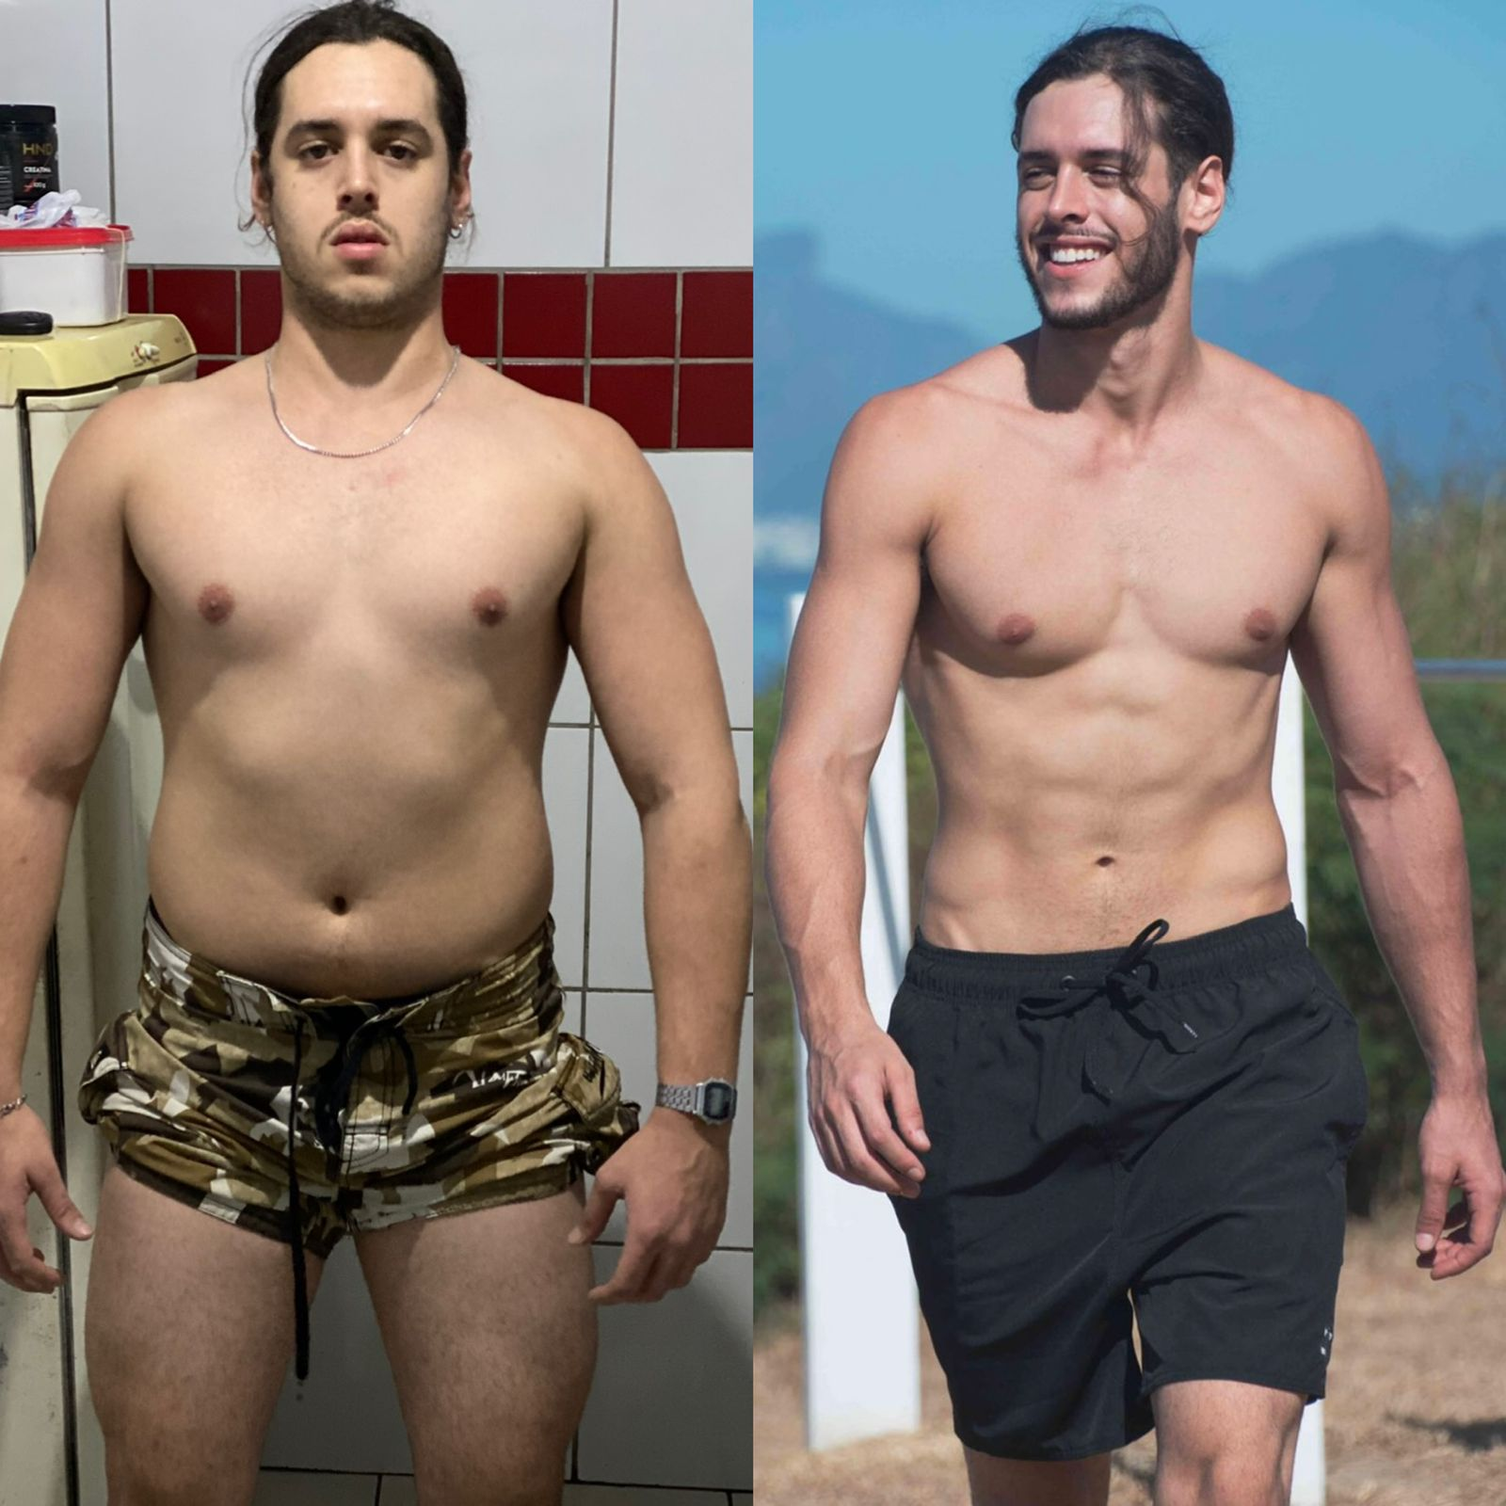
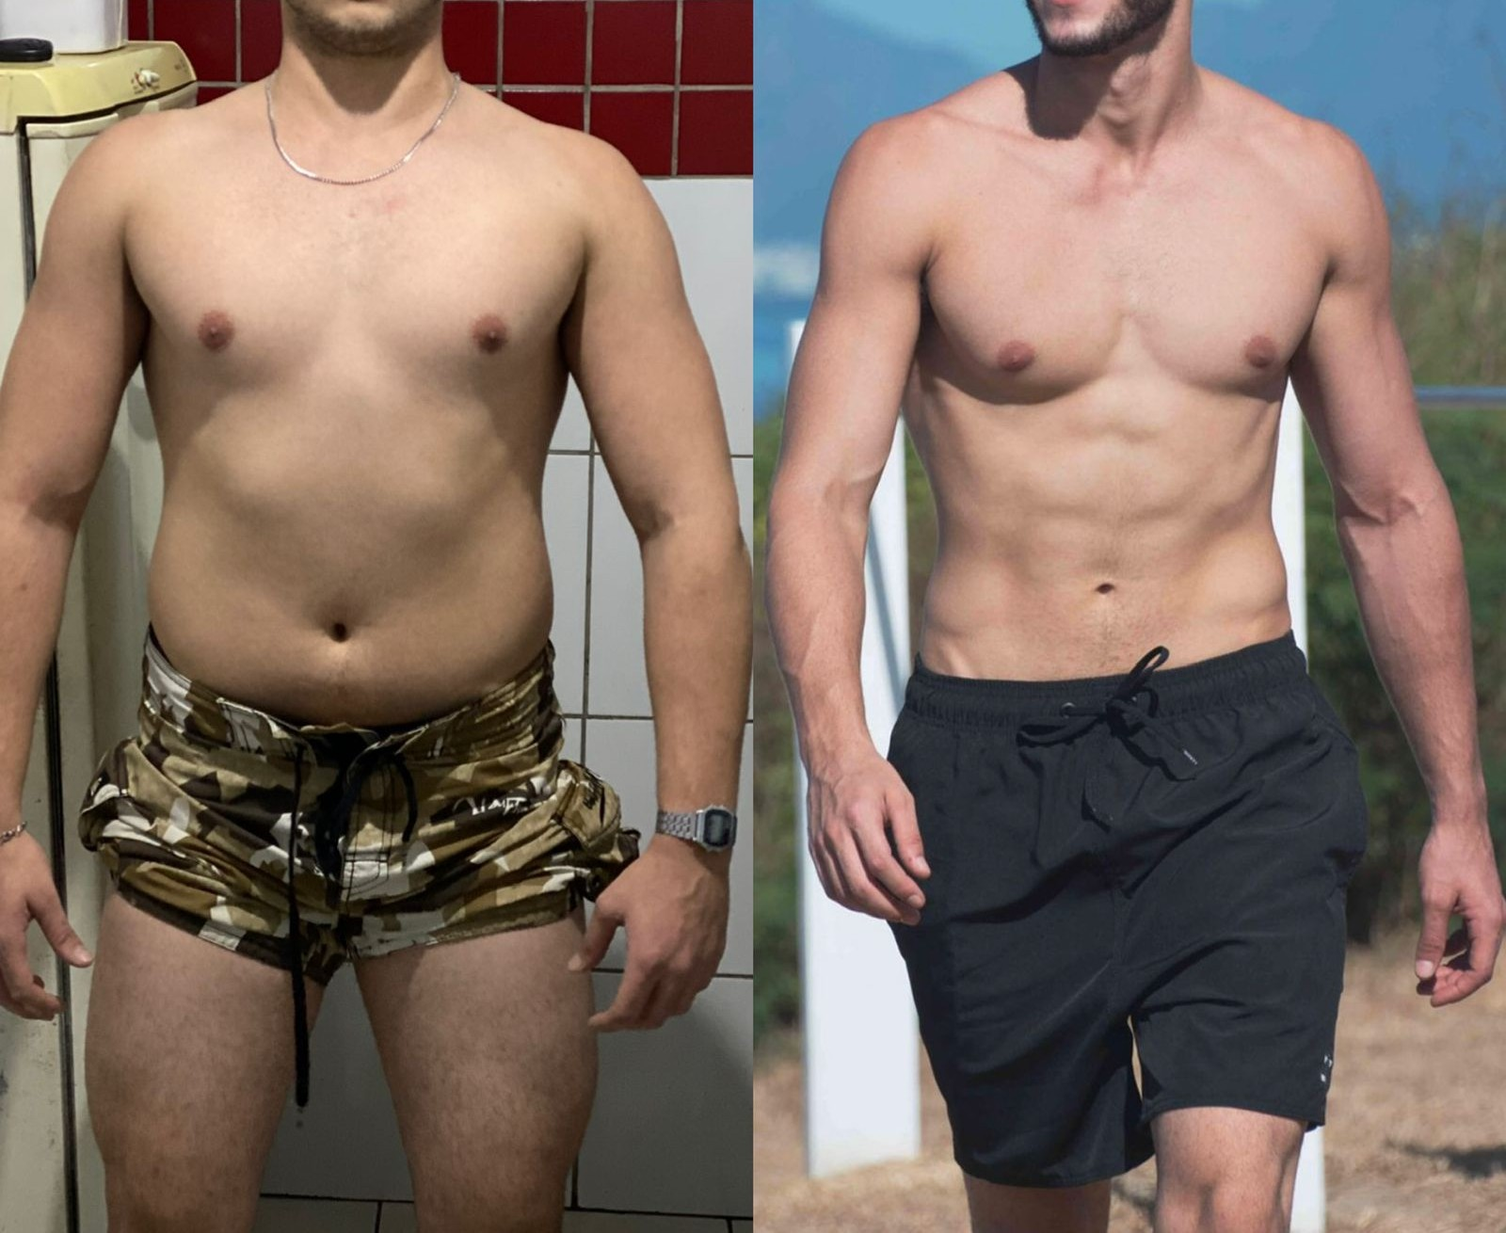
ajustes

diff --git a/index.html b/index.html
@@ -117,20 +117,32 @@
             scroll-behavior: smooth;
             /* Rolagem suave ao clicar nos botões */
         }
+
+        .logo-header {
+            max-width: 120px;
+            height: 100%;
+        }
+
+        .logo-footer {
+            max-width: 200px;
+            height: 100%;
+        }
     </style>
 </head>
 
 <body class="antialiased selection:bg-brand-500 selection:text-white" style="max-width: 100%;">
 
     <nav class="fixed w-full z-50 glass-panel border-b border-dark-700 transition-all duration-300" id="navbar">
-        <div class="max-w-7xl mx-auto px-4 sm:px-6 lg:px-8">
-            <div class="flex items-center justify-between h-20">
-                <div class="text-3xl font-extrabold tracking-widest text-white">
-                    <a href="#">ORM <span class="text-brand-500">TEAM</span></a>
+        <div class="max-w-7xl mx-auto sm:px-6 lg:px-8">
+            <div class="flex items-center justify-end md:justify-between h-20 relative">
+
+                <div
+                    class="absolute left-1/2 -translate-x-1/2 md:static md:translate-x-0 md:left-auto text-3xl font-extrabold tracking-widest text-white">
+                    <a href="#"><img src="img/logo/logo_branco_alt.png" alt="" class="logo-header"></a>
                 </div>
 
                 <button id="mobile-menu-btn"
-                    class="md:hidden flex items-center text-gray-300 hover:text-brand-400 focus:outline-none transition-colors">
+                    class="md:hidden flex items-center text-gray-300 hover:text-brand-400 focus:outline-none transition-colors pr-4">
                     <svg id="icon-bars" class="w-8 h-8 block" fill="none" stroke="currentColor" viewBox="0 0 24 24"
                         stroke-width="2">
                         <path stroke-linecap="round" stroke-linejoin="round" d="M4 6h16M4 12h16m-7 6h7"></path>
@@ -142,7 +154,7 @@
                 </button>
 
                 <div id="nav-links"
-                    class="hidden md:flex absolute md:static top-20 left-0 w-full md:w-auto bg-dark-900 glass-panel md:bg-transparent border-b border-dark-700 md:border-none py-8 md:py-0 flex-col md:flex-row items-center space-y-6 md:space-y-0 md:space-x-8 shadow-2xl md:shadow-none">
+                    class="hidden md:flex absolute md:static top-20 left-0 w-full md:w-auto bg-dark-900 md:bg-transparent border-b border-dark-700 md:border-none py-8 md:py-0 flex-col md:flex-row items-center space-y-6 md:space-y-0 md:space-x-8 shadow-2xl md:shadow-none">
                     <a href="#resultados"
                         class="text-base md:text-sm font-medium text-gray-400 hover:text-brand-400 transition">Resultados</a>
                     <a href="#depoimentos"
@@ -150,14 +162,13 @@
                     <a href="#metodo"
                         class="text-base md:text-sm font-medium text-gray-400 hover:text-brand-400 transition">O
                         Método</a>
+                    <a href="#diferenciais"
+                        class="text-base md:text-sm font-medium text-gray-400 hover:text-brand-400 transition">Diferenciais</a>
                     <a href="#sobre"
                         class="text-base md:text-sm font-medium text-gray-400 hover:text-brand-400 transition">Sobre
                         Mim</a>
-                    <!-- <a href="#aplicacao"
-                        class="btn-pulse-glow inline-flex items-center justify-center bg-brand-500 hover:bg-brand-400 text-white font-extrabold py-3 md:py-4 px-8 rounded-[8px] transition-colors duration-300 w-[90%] md:w-auto text-center">
-                        ⚡ QUERO TRANFORMAR MEU FÍSICO
-                    </a> -->
                 </div>
+
             </div>
         </div>
     </nav>
@@ -185,7 +196,7 @@
                     </p>
 
                     <div class="reveal delay-300 pt-4 flex flex-col items-center gap-3">
-                        <a href="#aplicacao"
+                        <a href="https://wa.me/553182549209?text=Oi%20Jo%C3%A3o.%20Decidi%20que%20quero%20mudar%20meu%20shape." target="_blank"
                             class="btn-pulse-glow inline-flex items-center justify-center bg-brand-500 hover:bg-brand-400 text-white font-extrabold text-lg py-4 px-8 rounded-[8px] border border-brand-400/30 transition-colors duration-300 w-full sm:w-auto text-center">
                             ⚡ ENTRAR PARA CONSULTORIA VIP
                         </a>
@@ -336,16 +347,21 @@
                                 ★★★★★
                             </div>
                             <p class="text-gray-300 text-lg leading-relaxed italic mb-6">
-                                "Trabalho 10h por dia e achava impossível ter um físico de respeito. O método foi direto
-                                ao ponto. Em 3 meses mudei mais que em 2 anos de academia."
+                                "Indiscutível o profissionalismo e conhecimento do João. Treinos simples, mas que causam
+                                impacto significativo no corpo, posso dizer, por experiência própria, que com pouco
+                                tempo já se vê resultados..."
                             </p>
                         </div>
+                        <button
+                            class="open-modal-btn text-brand-400 hover:text-brand-300 text-sm font-semibold text-left mb-6 transition-colors focus:outline-none"
+                            data-text="Indiscutível o profissionalismo e conhecimento do João. Treinos simples, mas que causam impacto significativo no corpo, posso dizer, por experiência própria, que com pouco tempo já se vê resultados. A consultoria é realmente um investimento que vale a pena, pra se ter saúde e óbvio alcançar um corpo bonito e harmônico. João é sempre presente, detalhista e atencioso às demandas do aluno, fazendo alterações que são importantes. Um cara extremamente sério e comprometido com o que faz. Obrigada pelo acompanhamento, João. Estou colhendo frutos bons, através das suas orientações."
+                            data-name="Dra Indyanara" data-role="Advogada, 35 anos">
+                            Ler depoimento completo
+                        </button>
                         <div class="flex items-center gap-4 mt-auto border-t border-dark-700 pt-6">
-                            <img src="https://i.pravatar.cc/150?img=11" alt="Foto Cliente"
-                                class="w-14 h-14 rounded-full object-cover border-2 border-brand-500 grayscale">
                             <div>
-                                <h4 class="text-white font-bold">Carlos Mendes</h4>
-                                <p class="text-brand-400 text-sm font-medium">Empresário, 34 anos</p>
+                                <h4 class="text-white font-bold">Dra Indyanara</h4>
+                                <p class="text-brand-400 text-sm font-medium">Advogada, 35 anos</p>
                             </div>
                         </div>
                     </div>
@@ -357,16 +373,14 @@
                                 ★★★★★
                             </div>
                             <p class="text-gray-300 text-lg leading-relaxed italic mb-6">
-                                "Treino curto, intenso e uma dieta que cabe na minha rotina de viagens. Finalmente um
-                                treinador que entende quem tem a vida corrida."
+                                "Tô muito satisfeita com o resultado. -3kg em 14 dias, mesmo sentindo que tô comendo
+                                bastante e ganhando força nos exercícios. Não me sinto mais inchada igual quando iniciei, tinha a sensação que estava enorme quando comecei a consultoria."
                             </p>
                         </div>
                         <div class="flex items-center gap-4 mt-auto border-t border-dark-700 pt-6">
-                            <img src="https://i.pravatar.cc/150?img=33" alt="Foto Cliente"
-                                class="w-14 h-14 rounded-full object-cover border-2 border-brand-500 grayscale">
                             <div>
-                                <h4 class="text-white font-bold">Roberto Silva</h4>
-                                <p class="text-brand-400 text-sm font-medium">Engenheiro, 41 anos</p>
+                                <h4 class="text-white font-bold">Isabella Freitas</h4>
+                                <p class="text-brand-400 text-sm font-medium">Enfermeira, 25 anos</p>
                             </div>
                         </div>
                     </div>
@@ -378,16 +392,16 @@
                                 ★★★★★
                             </div>
                             <p class="text-gray-300 text-lg leading-relaxed italic mb-6">
-                                "Sempre fui o cara que começava e parava. O acompanhamento me deu a direção e a cobrança
-                                que eu precisava. Meu físico e minha disposição mudaram completamente."
+                                "O foco tem sido o maior diferencial e aprendizado desse processo todo e é algo que
+                                estou utilizando na minha vida. Nesse momento estou enfrentando diversas mudanças
+                                profissionais e financeiras que esse foco e determinação adquiridos nesse processo estao
+                                me dando confiança pra enfrentar."
                             </p>
                         </div>
                         <div class="flex items-center gap-4 mt-auto border-t border-dark-700 pt-6">
-                            <img src="https://i.pravatar.cc/150?img=12" alt="Foto Cliente"
-                                class="w-14 h-14 rounded-full object-cover border-2 border-brand-500 grayscale">
                             <div>
-                                <h4 class="text-white font-bold">André Lemos</h4>
-                                <p class="text-brand-400 text-sm font-medium">Médico, 38 anos</p>
+                                <h4 class="text-white font-bold">Dr Lucas Varela </h4>
+                                <p class="text-brand-400 text-sm font-medium">Advogado, 28 anos</p>
                             </div>
                         </div>
                     </div>
@@ -399,20 +413,58 @@
                                 ★★★★★
                             </div>
                             <p class="text-gray-300 text-lg leading-relaxed italic mb-6">
-                                "Eu achava que precisava morar na academia para ter resultado. Hoje treino 45 minutos
-                                com a estratégia certa e o espelho não mente. Excelente trabalho."
+                                "Tu tem um jeito de conduzir que motiva sem pressionar, corrige sem humilhar, incentiva
+                                sem iludir.
+                                E isso cria um ambiente onde eu não treino só pra mudar o físico, mas pra melhorar como
+                                ser humano mesmo..."
                             </p>
                         </div>
+                        <button
+                            class="open-modal-btn text-brand-400 hover:text-brand-300 text-sm font-semibold text-left mb-6 transition-colors focus:outline-none"
+                            data-text="Tu tem um jeito de conduzir que motiva sem pressionar, corrige sem humilhar, incentiva
+                                sem iludir.
+                                E isso cria um ambiente onde eu não treino só pra mudar o físico, mas pra melhorar como
+                                ser humano mesmo.
+                                Teu impacto vai além do treino: é disciplina, é autoestima, é cuidado, é presença.
+                                Tu me fez acreditar que eu posso mais do que eu imaginava, e isso fica.
+                                Esse é o tipo de coisa que transforma" data-name="Dr Leo Nunes"
+                            data-role="Médico, 47 anos">
+                            Ler depoimento completo
+                        </button>
                         <div class="flex items-center gap-4 mt-auto border-t border-dark-700 pt-6">
-                            <img src="https://i.pravatar.cc/150?img=60" alt="Foto Cliente"
-                                class="w-14 h-14 rounded-full object-cover border-2 border-brand-500 grayscale">
                             <div>
-                                <h4 class="text-white font-bold">Marcelo Costa</h4>
-                                <p class="text-brand-400 text-sm font-medium">Desenvolvedor, 29 anos</p>
+                                <h4 class="text-white font-bold">Dr Leo Nunes</h4>
+                                <p class="text-brand-400 text-sm font-medium">Médico, 47 anos</p>
                             </div>
                         </div>
                     </div>
 
+                    <div
+                        class="reveal-scale delay-400 min-w-[300px] md:min-w-[400px] max-w-[400px] bg-dark-800 border border-dark-700 p-8 rounded-2xl snap-center flex flex-col justify-between hover:border-brand-500/30 transition-colors">
+                        <div>
+                            <div class="flex text-yellow-400 mb-4 text-xl">
+                                ★★★★★
+                            </div>
+                            <p class="text-gray-300 text-lg leading-relaxed italic mb-6">
+                                "E hoje eu tive uma percepção muito boa. Eu nunca, NUNCA consegui colocar mais que 25,
+                                30kg nessa máquina de elevação pélvica. Ficava muito pesado e eu sentia que meu glúteo
+                                não conseguia sustentar a força..."
+                            </p>
+                        </div>
+                        <button
+                            class="open-modal-btn text-brand-400 hover:text-brand-300 text-sm font-semibold text-left mb-6 transition-colors focus:outline-none"
+                            data-text="E hoje eu tive uma percepção muito boa. Eu nunca, NUNCA consegui colocar mais que 25, 30kg nessa máquina de elevação pélvica. Ficava muito pesado e eu sentia que meu glúteo não conseguia sustentar a força. E desde então, treinando glúteo 3x na semana como você fez, meu glúteo ganhou uma força
+                                surreal 🥺 hoje fiquei tão feliz que eu consegui fazer 45kg naquela máquina! Kkkk parece pouco, mas tipo, eu nunca consegui sair de 25"
+                            data-name="Dra Jessica Poline" data-role="Dentista 24 anos">
+                            Ler depoimento completo
+                        </button>
+                        <div class="flex items-center gap-4 mt-auto border-t border-dark-700 pt-6">
+                            <div>
+                                <h4 class="text-white font-bold">Dra Jessica Poline</h4>
+                                <p class="text-brand-400 text-sm font-medium">Dentista 24 anos</p>
+                            </div>
+                        </div>
+                    </div>
                 </div>
 
                 <button id="btn-next"
@@ -693,10 +745,6 @@
                 <div class="order-1 lg:order-2">
 
                     <div class="text-left mb-8 reveal-right">
-                        <p
-                            class="text-brand-400 font-bold tracking-widest uppercase text-sm mb-4 border-b border-brand-400/30 pb-1 w-fit">
-                            👤 Quem é o seu Treinador
-                        </p>
                         <h2 class="text-4xl md:text-5xl font-extrabold text-white tracking-tight mb-2">
                             Muito Além da <span class="gradient-text">Teoria</span>
                         </h2>
@@ -775,19 +823,48 @@
 
     <div id="floating-cta"
         class="fixed bottom-12 left-1/2 -translate-x-1/2 z-[100] transition-all duration-500 opacity-0 translate-y-10 pointer-events-none w-[90%] sm:w-auto">
-        <a href="#aplicacao"
+        <a href="https://wa.me/553182549209?text=Oi%20Jo%C3%A3o.%20Decidi%20que%20quero%20mudar%20meu%20shape." target="_blank"
             class="btn-pulse-glow flex items-center justify-center bg-brand-500 hover:bg-brand-400 text-white font-extrabold text-base sm:text-lg py-4 px-8 rounded-[8px] shadow-[0_10px_40px_rgba(176,11,11,0.6)] w-full text-center whitespace-nowrap border border-brand-400/30">
             ⚡ ENTRAR PARA CONSULTORIA VIP
         </a>
     </div>
 
     <footer class="bg-black pt-16 pb-32 border-t border-dark-800 text-center">
-        <div class="reveal text-2xl font-extrabold tracking-widest text-white uppercase mb-4">
-            ORM <span class="text-brand-500">TEAM</span>
-        </div>
         <p class="reveal delay-100 text-gray-500 text-sm mb-2">&copy; 2026 ORM TEAM. Todos os direitos reservados.</p>
         <p class="reveal delay-200 text-gray-600 text-xs">Desenvolvido por Pedro Martins.</p>
     </footer>
+
+    <div id="testimonial-modal"
+        class="fixed inset-0 z-[100] hidden items-center justify-center bg-black/80 backdrop-blur-sm opacity-0 transition-opacity duration-300">
+
+        <div id="modal-content-box"
+            class="bg-dark-800 border border-dark-700 p-8 md:p-10 rounded-2xl max-w-2xl w-full mx-4 relative transform scale-95 transition-transform duration-300 shadow-2xl">
+
+            <button id="close-modal-btn"
+                class="absolute top-4 right-4 text-gray-400 hover:text-brand-400 transition-colors focus:outline-none">
+                <svg class="w-8 h-8" fill="none" stroke="currentColor" viewBox="0 0 24 24">
+                    <path stroke-linecap="round" stroke-linejoin="round" stroke-width="2" d="M6 18L18 6M6 6l12 12">
+                    </path>
+                </svg>
+            </button>
+
+            <div class="flex text-yellow-400 mb-6 text-2xl">
+                ★★★★★
+            </div>
+
+            <p id="modal-text" class="text-gray-300 text-lg md:text-xl leading-relaxed italic mb-8">
+            </p>
+
+            <div class="flex items-center gap-4 border-t border-dark-700 pt-6">
+
+                <div>
+                    <h4 id="modal-name" class="text-white font-bold text-lg"></h4>
+                    <p id="modal-role" class="text-brand-400 text-sm font-medium"></p>
+                </div>
+            </div>
+
+        </div>
+    </div>
 
     <script>
         tailwind.config = {
@@ -966,6 +1043,74 @@
                     });
                 });
             }
+
+
+
+
+
+
+            //MODAL
+            const modal = document.getElementById('testimonial-modal');
+            const modalBox = document.getElementById('modal-content-box');
+            const closeBtn = document.getElementById('close-modal-btn');
+            const openBtns = document.querySelectorAll('.open-modal-btn');
+
+            // Elementos dentro do modal que receberão os dados
+            const modalText = document.getElementById('modal-text');
+            const modalName = document.getElementById('modal-name');
+            const modalRole = document.getElementById('modal-role');
+            const modalImg = document.getElementById('modal-img');
+
+            // Função para abrir o modal
+            const openModal = (btn) => {
+                // 1. Injeta os dados do botão no modal
+                modalText.textContent = `"${btn.dataset.text}"`;
+                modalName.textContent = btn.dataset.name;
+                modalRole.textContent = btn.dataset.role;
+
+                // 2. Mostra o modal e aplica animações
+                modal.classList.remove('hidden');
+                modal.classList.add('flex');
+
+                // Timeout minúsculo para garantir que o display: flex foi aplicado antes da opacidade mudar
+                setTimeout(() => {
+                    modal.classList.remove('opacity-0');
+                    modalBox.classList.remove('scale-95');
+                    modalBox.classList.add('scale-100');
+                }, 10);
+
+                // Bloqueia o scroll da página de fundo
+                document.body.style.overflow = 'hidden';
+            };
+
+            // Função para fechar o modal
+            const closeModal = () => {
+                // Inicia a animação de saída
+                modal.classList.add('opacity-0');
+                modalBox.classList.remove('scale-100');
+                modalBox.classList.add('scale-95');
+
+                // Aguarda a animação (300ms) terminar para esconder o elemento
+                setTimeout(() => {
+                    modal.classList.add('hidden');
+                    modal.classList.remove('flex');
+                    document.body.style.overflow = ''; // Devolve o scroll da página
+                }, 300);
+            };
+
+            // Adiciona os eventos de clique
+            openBtns.forEach(btn => btn.addEventListener('click', () => openModal(btn)));
+            closeBtn.addEventListener('click', closeModal);
+
+            // Fecha o modal se o usuário clicar fora da caixa principal (no fundo escuro)
+            modal.addEventListener('click', (e) => {
+                if (e.target === modal) closeModal();
+            });
+
+            // Fecha o modal com a tecla ESC
+            document.addEventListener('keydown', (e) => {
+                if (e.key === 'Escape' && !modal.classList.contains('hidden')) closeModal();
+            });
         });
     </script>
 </body>
